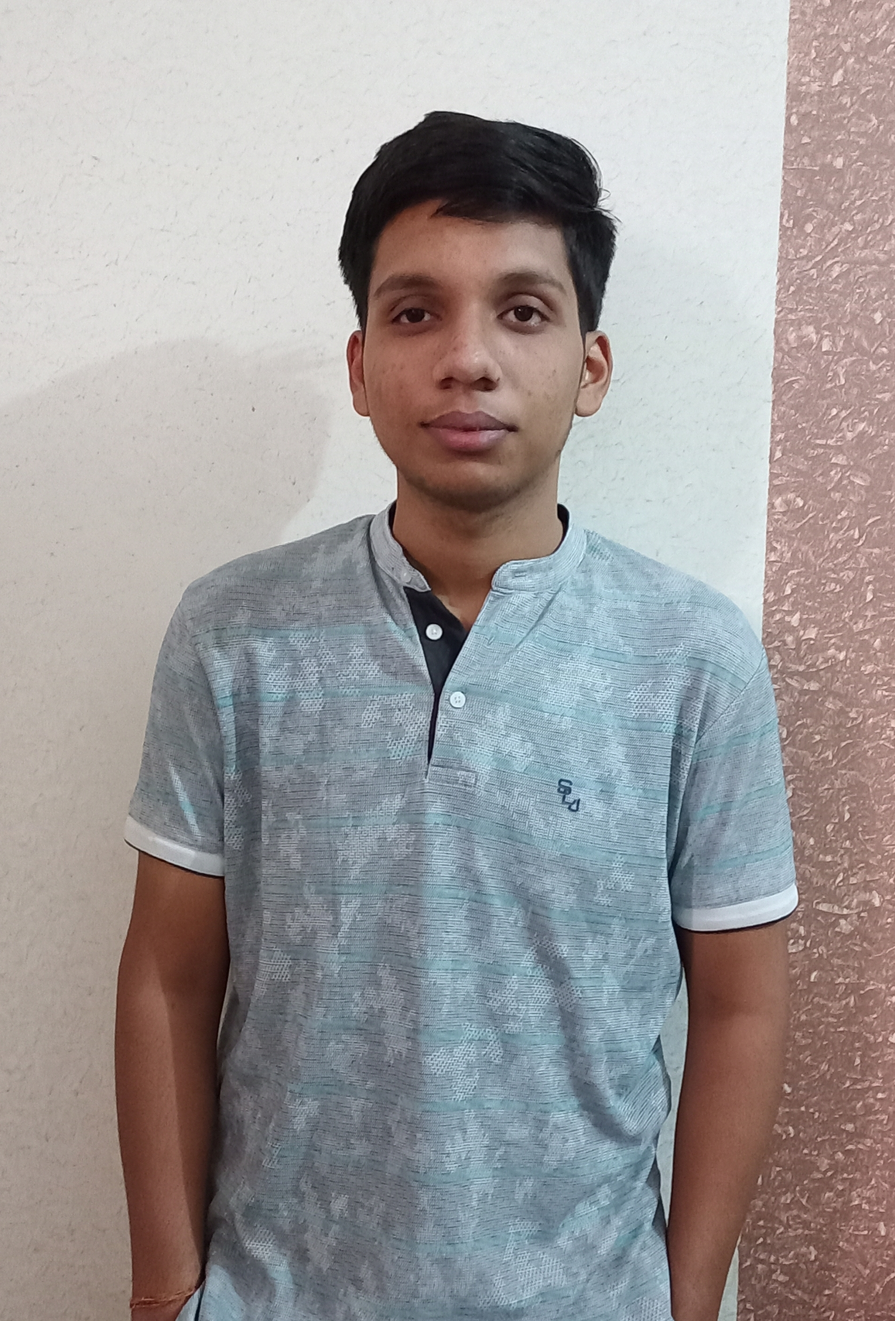
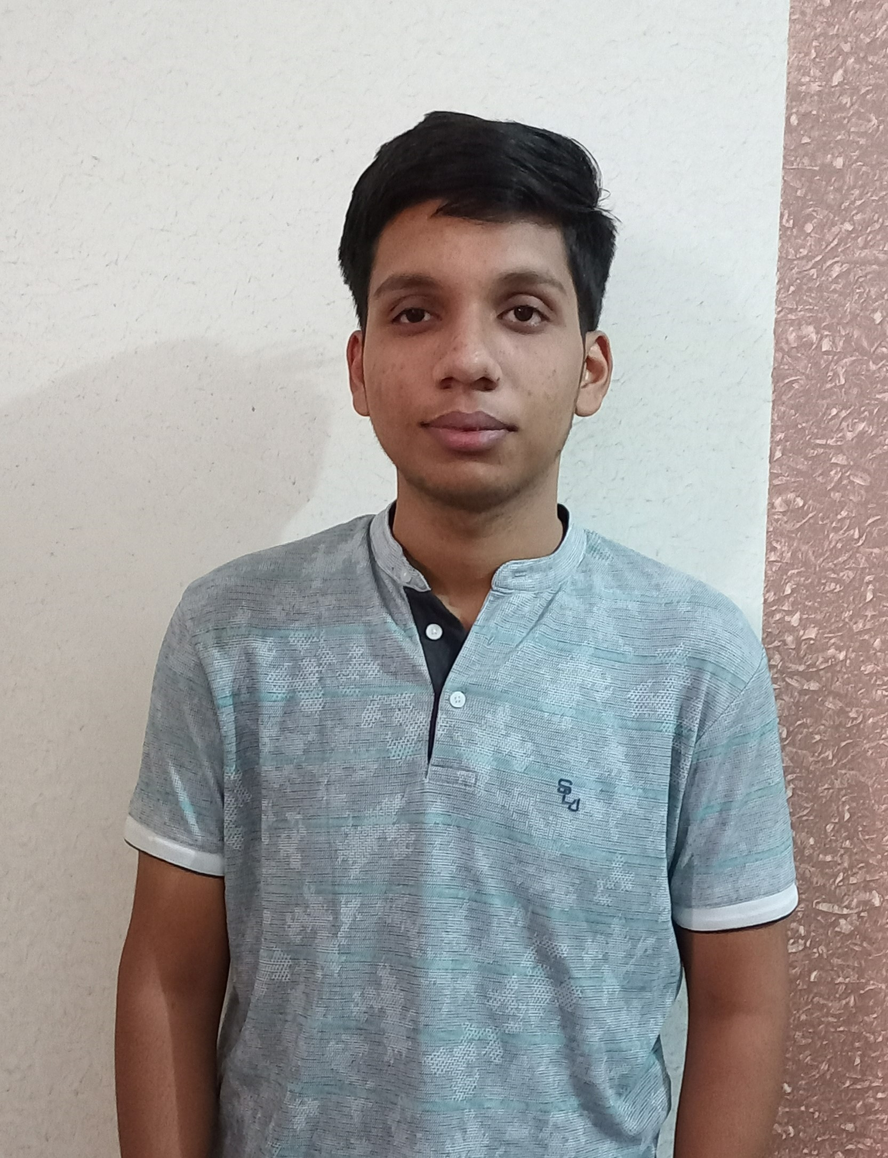
fix

diff --git a/index.html b/index.html
@@ -77,7 +77,7 @@
       <div class="row">
         <div class="col-lg-4 py-3">
           <div class="img-place wow fadeInUp">
-            <img src="../assets/img/profilepic.jpg" alt="" style="height: 370px;">
+            <img src="../assets/img/profilepic.jpg" alt="" >
           </div>
         </div>
         <div class="col-lg-6 offset-lg-1 wow fadeInRight">
